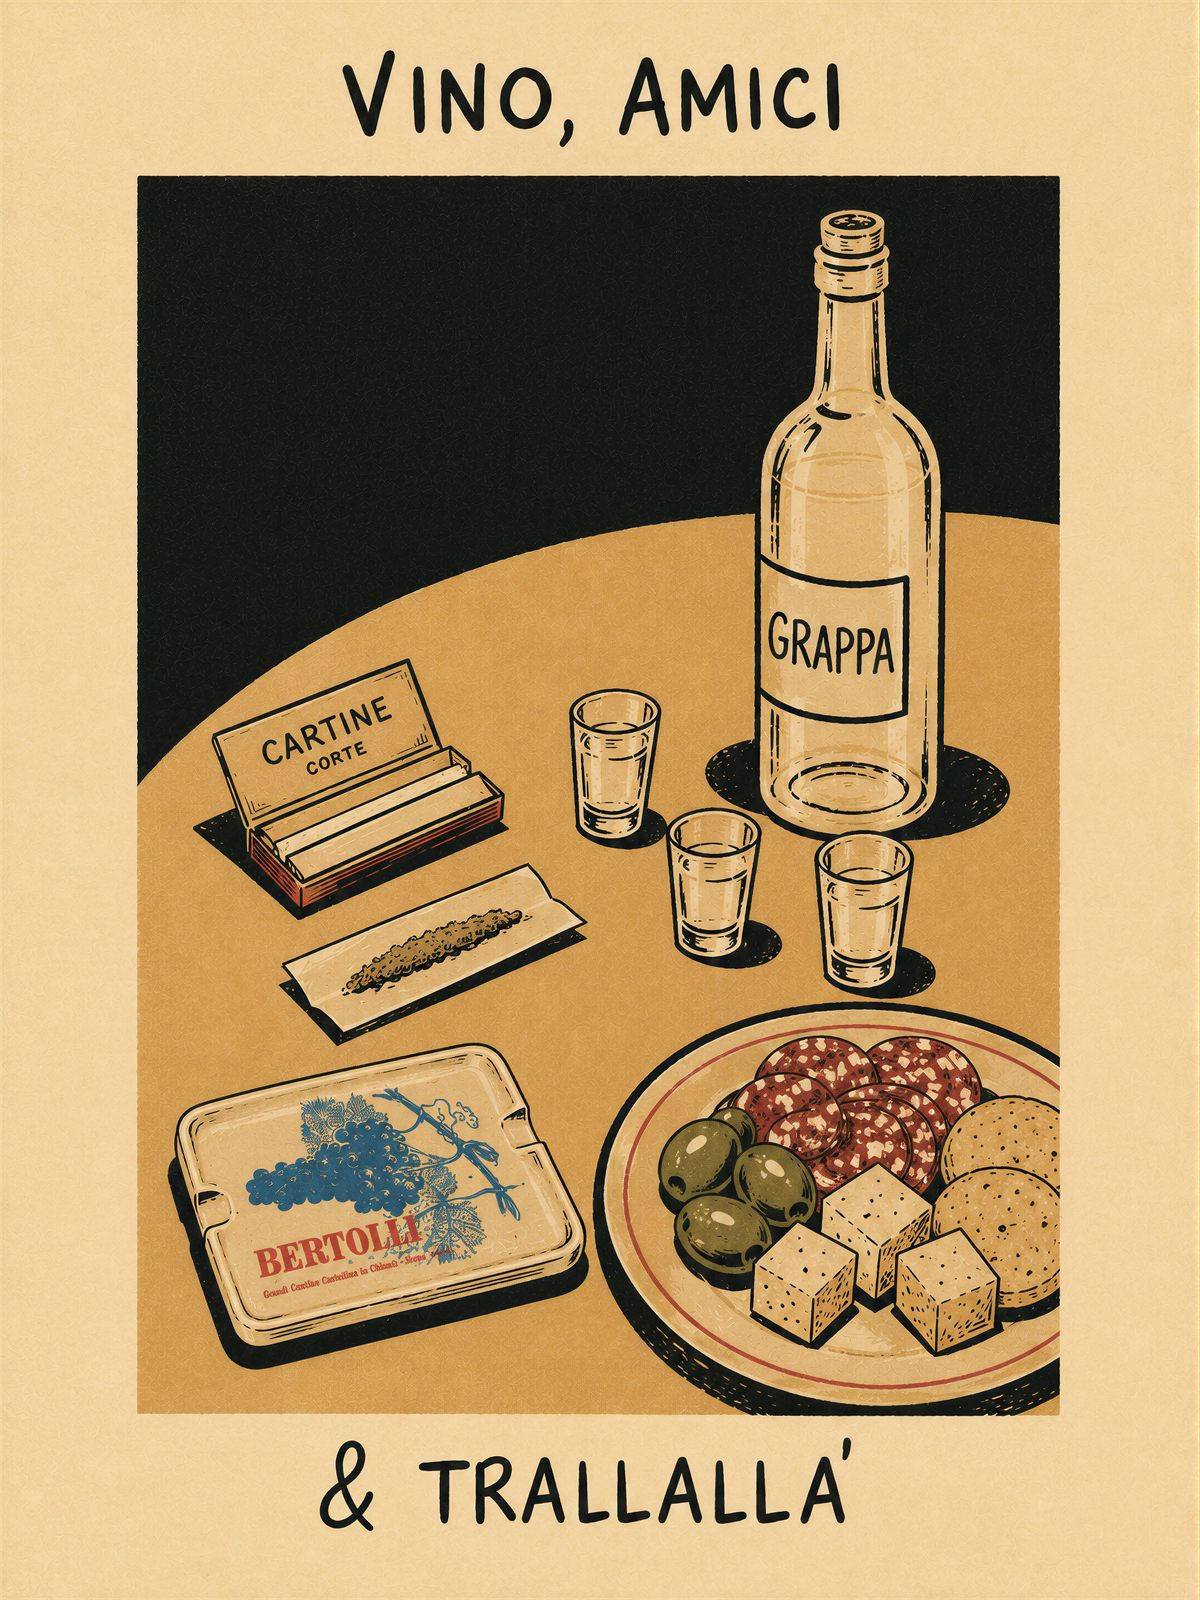
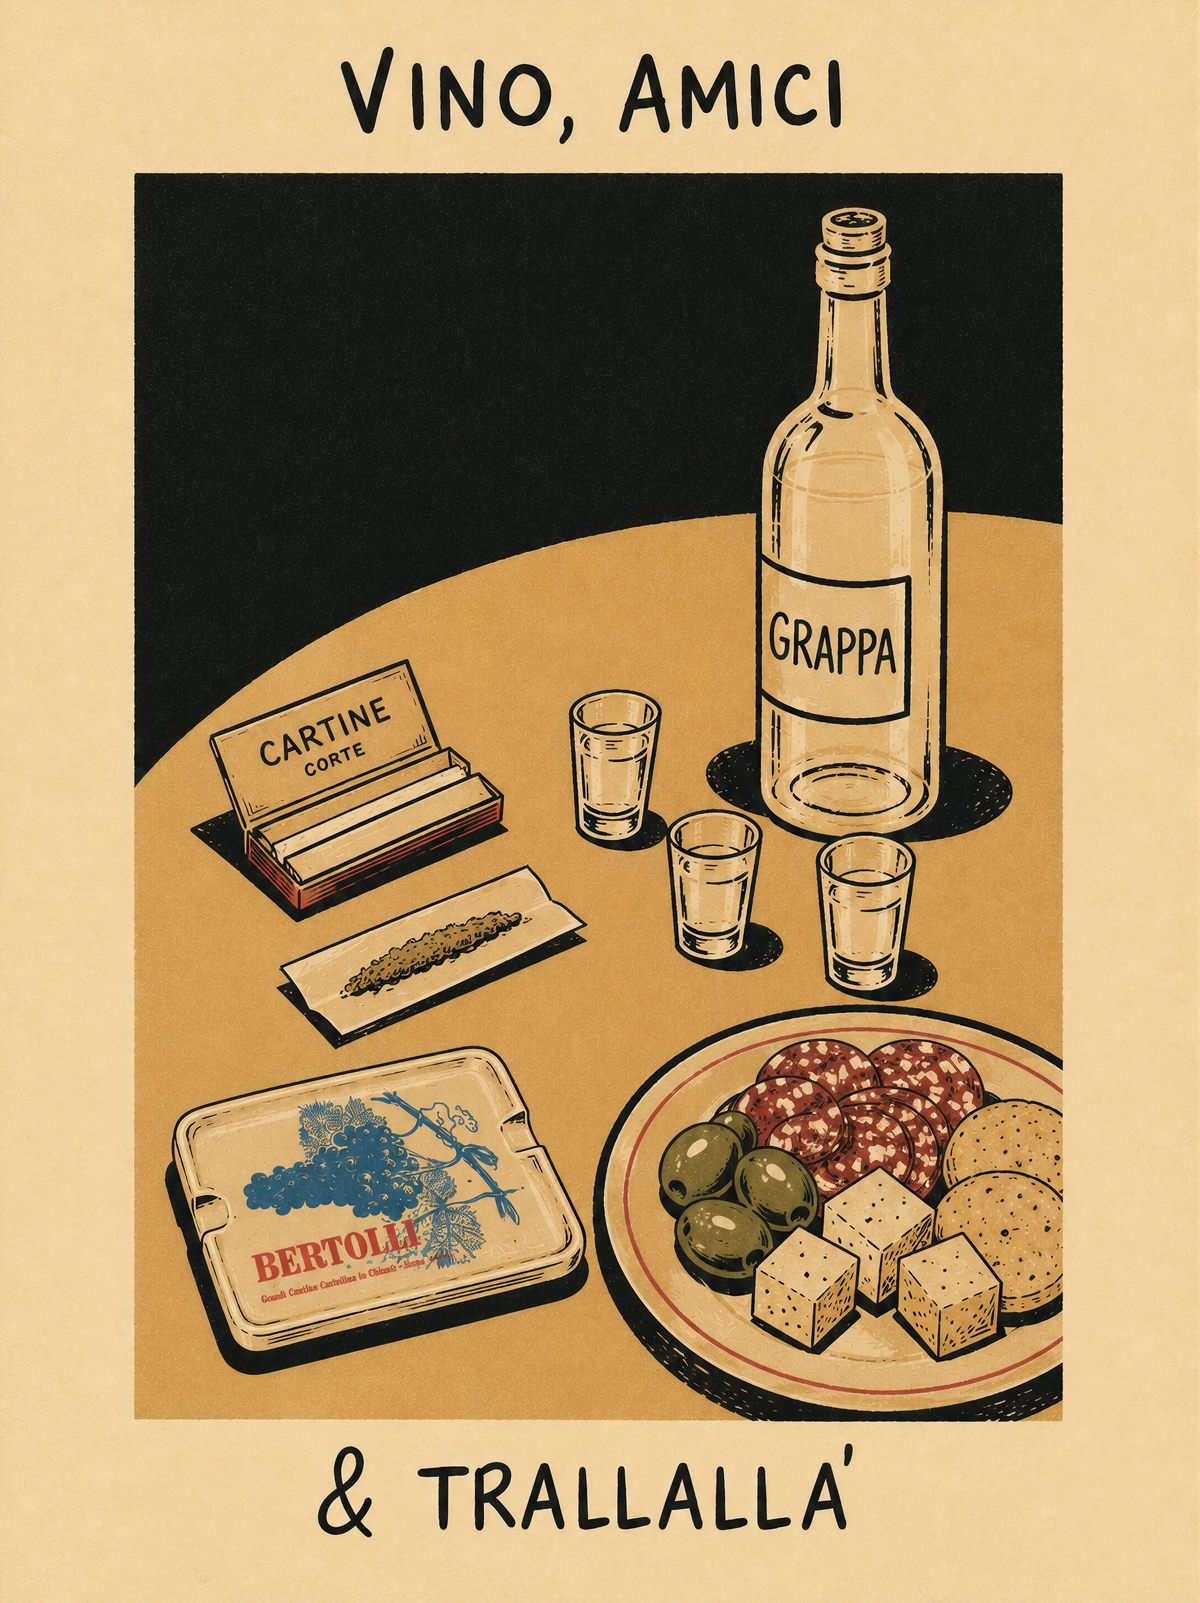
fix: two edges down the right side of the hero, not one
Both real, both on the same side, which is why it read as an extra border.

The scan's own rightmost column came through the resize at #E5D597 — darker and
greener than its neighbours at #FFF0B2 and than the whole left edge. Against
the mount that is a visible line. Re-cut from the original with 14px trimmed
off all four sides, so no scan edge survives.

And the hero carried a border-right hairline on top of that. The cream mount
against the paper panel already separates the columns; the hairline was a
second edge, made worse by the left side running cream to the screen edge with
nothing on it at all.

While in there: the mount colour is now averaged over the poster's whole border
ring rather than sampled at a single point. One sample landed a shade off and
the join showed.

Claude-Session: https://claude.ai/code/session_01MuQeTHRb3S3Ra2MFk9vDLG

diff --git a/styles.css b/styles.css
@@ -106,9 +106,11 @@ b, strong { font-weight: 600; }
   --gate-hero: url("img/hero-tralala.jpg");
   --gate-hero-fit: contain;
   --gate-hero-pos: center;
-  /* sampled off the poster's own border, so the letterboxing reads as a mount
-     rather than as empty space around a picture */
-  --gate-mount: #f0cfa2;
+  /* Averaged over the poster's whole border ring, not sampled at one point —
+     a single sample landed a shade off and the seam showed. The scan's own
+     dark right-hand edge is cropped off in the resize; left in, it read as a
+     second border down that side. */
+  --gate-mount: #f2d29f;
 }
 .gate {
   min-height: 100dvh; display: grid; padding: 0;
@@ -116,9 +118,11 @@ b, strong { font-weight: 600; }
   place-items: stretch;
 }
 
+/* No border-right. The cream mount against the paper panel already separates
+   the columns, and a hairline on top of that read as a second edge — the more
+   so because the left side runs cream to the screen edge with nothing on it. */
 .gatehero {
   position: relative; background: var(--gate-mount); overflow: hidden;
-  border-right: 1px solid var(--hair);
 }
 .gheroart {
   position: absolute; inset: 0;
@@ -180,7 +184,6 @@ b, strong { font-weight: 600; }
     grid-template-rows: clamp(13rem, 38vh, 20rem) 1fr;
     min-height: 100dvh;
   }
-  .gatehero { border-right: 0; border-bottom: 0; }
   .gheroart { --gate-hero-fit: cover; --gate-hero-pos: 50% 20%; }
 
   .gatepanel {
